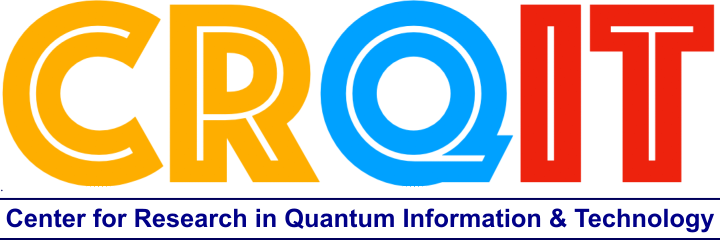
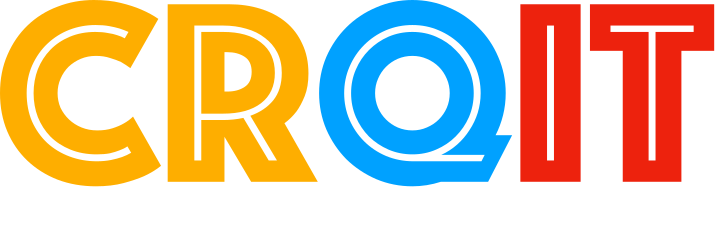
added crqit link and made some css changes on landing page

diff --git a/src/pages/home.js b/src/pages/home.js
@@ -14,6 +14,7 @@ import qfflogo from "../images/Sponsored/QFF_dark.png";
 import { ListGroup } from "react-bootstrap";
 import qbits_logo from "../images/qbits_nobg.png";
 import crqit from "../images/CRQIT.png";
+import "../pages/test.css";
 
 const homepg_text =
   "Qiskit Fall Fest is a collection of quantum computing events that invites students, researchers and industry professionals around the world to participate in a wide array of quantum-themed activities, ranging from quantum challenges, hackathons, and coding competitions to workshops, social events, and more. With each Qiskit Fall Fest, we partner with a select group of university students and other volunteer hosts to help them plan and run the global roster of Fall Fest events. This year's event theme, World of Quantum, celebrates the international scope of the event series and the rapid growth of the global quantum community.";
@@ -84,44 +85,51 @@ function Home() {
                     minHeight: "100px",
                     display: "flex",
                     flexDirection: "column",
-                    alignItems: "center", // Center horizontally
-                   }}>
-                    <div style={{ display: "flex", justifyContent: "center", alignItems: "center" }}>
-                      <a href="https://qbitsbpgc.wordpress.com/" target="_blank" rel="noopener noreferrer">
-                        <img src={qbits_logo} alt="Qbits Logo" className="responsive-img" style={{ height: "150px", marginRight: "20px", padding: "10px" }} />
-                      </a>
-                      {/* add link for crqit when available */}
-                      <img src={crqit} alt="CRQIT Logo" className="responsive-img" style={{ height: "80px" }} />
-                    </div>
-                  <h1
-                    style={{
-                      textAlign: "center",
-                      fontWeight: "800",
-                      color: "white",
-                      padding: "20px",
-                      alignItems: 'center',
-                      fontFamily: "IBM Plex Sans, sans-serif",
-                      fontSize: "4rem",
-                    }}
-                  >
-                    Qiskit Fall Fest 2024
-                  </h1>
-                  <h3 style={{ fontWeight: "600", color: "white" }}>November 16-24 | 2024</h3>
-                </div>
-              </div>
-              <div className="d-flex-inline" style={{
-                    minHeight: "50px",
-                    display: "flex",
-                    flexDirection: "column",
-                    alignItems: "center",}}>
-                {/* <a
-                  download
-                  href="documents/CTCPB_2025.pdf"
-                  className="black-button m-1"
-                >
-                  {" "}
-                  Schedule <i className="fa fa-download" aria-hidden="true"></i>
-                </a> */}
+                    // Center horizontally
+                               }}>
+                              <div style={{ display: "flex", justifyContent: "center", alignItems: "center", paddingBottom: "20px", marginTop:"-25px", maxHeight:"120px"}}>
+                                <a href="https://qbitsbpgc.wordpress.com/" target="_blank" rel="noopener noreferrer">
+                                <img src={qbits_logo} alt="Qbits Logo" className="responsive-img" style={{ maxHeight: "100px", marginRight: "20px", height:"auto", maxWidth:"40vw"}} />
+                                </a>
+                                {/* add link for crqit when available */}
+                                 <a href="https://sites.google.com/view/crqit-bitsgoa/home" target="_blank" rel="noopener noreferrer">
+                                <img src={crqit} alt="CRQIT Logo" className="responsive-img" style={{ height: "auto", maxWidth:"50vw", maxHeight:"50px" }} />
+                                </a>
+                              </div>
+                              <h1
+                              class = "gradient-text responsive-text"
+                              style={{
+                                textAlign: "center",
+                                fontWeight: "600",
+                                color: "white",
+                                padding: "20px",
+                                alignItems: 'center',
+                                fontFamily: "IBM Plex Sans, sans-serif",
+                                
+                                
+                              }}
+                              >
+                              Qiskit Fall Fest 2024
+                              </h1>
+                              
+                              <h3 style={{ fontWeight: "600", color: "white" }}>November 16-24 | 2024</h3>
+                              
+                            </div>
+                            </div>
+                            <div className="d-flex-inline" style={{
+                              minHeight: "50px",
+                              display: "flex",
+                              flexDirection: "column",
+                              alignItems: "center",
+                              marginBottom: "20px"}}> {/* Added space below */}
+                            {/* <a
+                              download
+                              href="documents/CTCPB_2025.pdf"
+                              className="black-button m-1"
+                            >
+                              {" "}
+                              Schedule <i className="fa fa-download" aria-hidden="true"></i>
+                            </a> */}
                 <a
                   download
                   href="https://docs.google.com/forms/d/e/1FAIpQLSe5BJwXmjrvfUy0lVXqc8GhkNiXqQIHdycz3lExkB52pKWNYg/viewform?usp=sf_link"
@@ -139,9 +147,10 @@ function Home() {
           
         </div>
       </div>
-
-
       <Timer />
+
+
+      
 
       {/* code to add single sponsorship and associated BY */}
 
@@ -179,28 +188,29 @@ function Home() {
         <div className="row  justify-content-center align-middle">
           <div className="col-lg-5 col-md-12 p-3" style={{ minHeight: "350px" }}>
             <div>
-              <h1 className="" style={{ textAlign: "center", fontWeight: "light", color: "white" }}>
-          Events Lined up <br />
-              </h1>
+              
+              
               <div
           style={{
-            backgroundColor: "#0a0c0d",
-            fontSize: "1.2rem",
-            fontWeight: "400",
+            backgroundColor: "rgb(10, 12, 13, 0.8)",
+            borderRadius: "15px", fontWeight: "400",
           }}
               >
+                <h1 className="" style={{ textAlign: "center", fontWeight: "light", color: "white", paddingTop: "15px" }}>
+          Events Lined up <br />
+              </h1>
           <ListGroup variant="flush">
             <hr style={{ backgroundColor: 'white' }} />
-            <ListGroup.Item style={{ backgroundColor: '#0a0c0d', color: 'white' }}> • Intro to Quantum Computing - Q101 • </ListGroup.Item>
+            <ListGroup.Item style={{ backgroundColor: 'rgb(10, 12, 13, 0)' , color: 'white' }}> • Intro to Quantum Computing - Q101 • </ListGroup.Item>
             <hr style={{ backgroundColor: 'white' }} />
-            <ListGroup.Item style={{ backgroundColor: '#0a0c0d', color: 'white' }}>
+            <ListGroup.Item style={{ backgroundColor: 'rgb(10, 12, 13, 0)', color: 'white' }}>
               {" "}
               • Quest - Quantum Hackathon •{" "}
             </ListGroup.Item >
             <hr style={{ backgroundColor: 'white' }} />
-            <ListGroup.Item style={{ backgroundColor: '#0a0c0d', color: 'white' }}> • Qiskit Challenges • </ListGroup.Item>
+            <ListGroup.Item style={{ backgroundColor: 'rgb(10, 12, 13, 0)', color: 'white' }}> • Qiskit Challenges • </ListGroup.Item>
             <hr style={{ backgroundColor: 'white' }} />
-            <ListGroup.Item style={{ backgroundColor: '#0a0c0d', color: 'white' }}> • Talks by Guest Speakers • </ListGroup.Item>
+            <ListGroup.Item style={{ backgroundColor: 'rgb(10, 12, 13, 0)', color: 'white' }}> • Talks by Guest Speakers • </ListGroup.Item>
             <hr style={{ backgroundColor: 'white' }} />
           </ListGroup>
               </div>

diff --git a/src/layouts/navbar.js b/src/layouts/navbar.js
@@ -6,52 +6,66 @@ import qbits_nobg from "../images/2024.png"
 import qff from "../images/Sponsored/Fall Fest.jpg"
 
 
-let NavWithDropDown = (props) => {
-	return (
-		<li class="nav-item dropdown">
-			<a class="nav-link dropdown-toggle text-light" style={{background: '#0d1011'}} href='/' id="navbarDropdown" role="button" data-toggle="dropdown" aria-haspopup="true" aria-expanded="false">
-			{props.name} &nbsp;<i class="fa fa-angle-down" style={{color: 'white'}}></i>
-			</a>
-			<div class="dropdown-menu" aria-labelledby="navbarDropdown"  >
-				{props.children}
-			</div>
-		</li>
-	)
-}
+// let NavWithDropDown = (props) => {
+// 	return (
+// 		<li class="nav-item dropdown">
+// 			<a class="nav-link dropdown-toggle text-light" style={{background: '#111415'}} href='/' id="navbarDropdown" role="button" data-toggle="dropdown" aria-haspopup="true" aria-expanded="false">
+// 			{props.name} &nbsp;<i class="fa fa-angle-down" style={{color: 'white'}}></i>
+// 			</a>
+// 			<div class="dropdown-menu" aria-labelledby="navbarDropdown"  >
+// 				{props.children}
+// 			</div>
+// 		</li>
+// 	)
+// }
 
 let NavWithoutDropDown = ({link, showname}) => {
 	return (
 		<li class="nav-item">
-			<Link className='nav-link text-light' style={{background: '#0d1011'}} data-toggle="collapse" data-target=".navbar-collapse.show" to={link}>{showname}</Link>
+			<Link className='nav-link text-light' style={{background: '#111415'}} data-toggle="collapse" data-target=".navbar-collapse.show" to={link}>{showname}</Link>
+		</li>
+	)
+}
+
+// Modify the dropdown menu background to black
+let NavWithDropDown = (props) => {
+	return (
+		<li class="nav-item dropdown">
+			<a class="nav-link dropdown-toggle text-light" style={{background: '#111415'}} href='/' id="navbarDropdown" role="button" data-toggle="dropdown" aria-haspopup="true" aria-expanded="false">
+			{props.name} &nbsp;<i class="fa fa-angle-down" style={{color: 'white'}}></i>
+			</a>
+			<div class="dropdown-menu" aria-labelledby="navbarDropdown" style={{background: '#111415'}}>
+				{props.children}
+			</div>
 		</li>
 	)
 }
 let NavWithoutDropDownLinked = ({link, showname}) => {
 	return (
 		<li class="nav-item">
-			<a className='nav-link text-light' style={{background: '#0d1011'}}  href={link} target="_blank" rel="noopener noreferrer">{showname}</a>
+			<a className='nav-link text-light' style={{background: '#111415'}}  href={link} target="_blank" rel="noopener noreferrer">{showname}</a>
 		</li>
 	)
 }
 let DropDownItem = ({link, showname}) => {
 	return (
-		<Link style={{fontWeight: '400'}} class="dropdown-item" data-toggle="collapse" data-target=".navbar-collapse.show" to={link}>{showname}</Link>
+		<Link style={{fontWeight: '400', background: '#111415', color: "white"}} class="dropdown-item text-light" data-toggle="collapse" data-target=".navbar-collapse.show" to={link}>{showname}</Link>
 	)
 }
 
 let DropDownItemLinked = ({link, showname}) => {
 	return (
-		<a style={{fontWeight: '400'}} class="dropdown-item"  href={link} target="_blank" rel="noopener noreferrer">{showname}</a>
+		<a style={{fontWeight: '400', background: '#111415'}} class="dropdown-item text-light"  href={link} target="_blank" rel="noopener noreferrer">{showname}</a>
 	)
 }
 
 function MyNavbar() {
 	return (
-		<div class="container-fluid" style={{background: '#0d1011'}}>
-			<nav class="navbar navbar-dark px-3 navbar-expand-lg sticky-top" style={{background: '#0d1011'}}>
+		<div class="container-fluid" style={{background: '#111415'}}>
+			<nav class="navbar navbar-dark px-3 navbar-expand-lg sticky-top" style={{background: '#111415'}}>
 				<div class="container-fluid d-flex align-items-center">
 					<a class="navbar-brand my-2" href="/">
-						<img src={qbits_nobg} height="10" class="align-top p-1 img-fluid" alt="qfflogo" style={{maxWidth: '40w', height: 'auto', maxHeight:"140px", marginLeft:"-50px"}} />
+						<img src={qbits_nobg}  class="align-top p-1 img-fluid" alt="qfflogo" style={{maxWidth: '50vw', height: 'auto', maxHeight:"120px", marginLeft:"-50px"}} />
 					</a>
 					<button class="navbar-toggler ms-auto" type="button" data-bs-toggle="collapse" data-bs-target="#navbarSupportedContent" aria-controls="navbarSupportedContent" aria-expanded="false" aria-label="Toggle navigation">
 						<span class="navbar-toggler-icon"></span>
@@ -62,7 +76,7 @@ function MyNavbar() {
           //     top: '100%', // Below the navbar
           //     left: '0',
           //     right: '0',
-          //     backgroundColor: '#0d1011', // Same background as navbar
+          //     backgroundColor: '#111415', // Same background as navbar
           //     zIndex: 9999, // Ensures it is on top of the rest of the content
 					//   }}
 					>

diff --git a/src/pages/test.css b/src/pages/test.css
@@ -1,0 +1,27 @@
+
+
+
+
+
+/* Default font sizes */
+.responsive-text {
+    font-size: 5rem;
+    margin-top: 10vh;
+    
+}
+
+/* Medium screens (tablets) */
+@media (max-width: 768px) {
+    .responsive-text {
+        font-size: 3rem;
+    }
+}
+
+/* Small screens (phones) */
+@media (max-width: 576px) {
+    .responsive-text {
+        font-size: 3rem;
+        margin-top: 10vh;
+        margin-bottom: 15vh;
+    }
+}

diff --git a/src/layouts/timer.js b/src/layouts/timer.js
@@ -59,7 +59,7 @@ const Timer = () => {
             <div 
             className="card col-lg-2 col-md-3 col-sm-3 px-0 py-lg-5 col"  
             style={{ 
-            background: '#0a0c0d', 
+            background: 'rgb(10, 12, 13, 0.7)', 
             color: 'white',
             position: 'relative'
             }}
